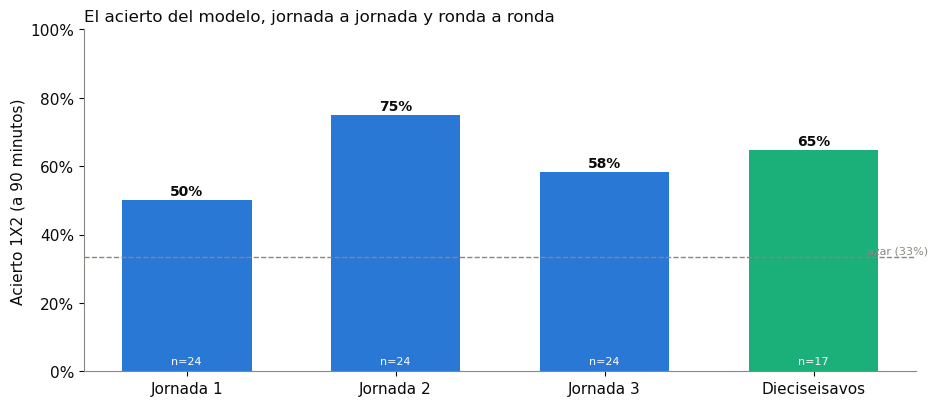
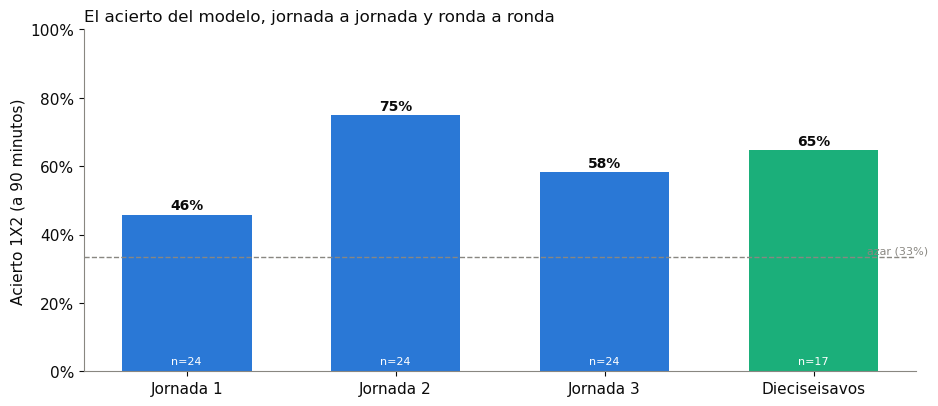
Refresh portfolio images and headline numbers after latest feature integration

Changed region(s): [[0.1237, 0.4433, 0.2783, 0.532]]

diff --git a/README.md b/README.md
@@ -18,11 +18,11 @@ fútbol internacional.
 
 | Métrica (evaluación a ciegas, sin fuga temporal) | Resultado |
 |---|---|
-| Acierto 1X2 en la fase de grupos 2026 (72 partidos) | **61%** (azar: 33%, casas de apuestas: ~55-58%) |
-| Acierto de quién avanza, dieciseisavos 2026 | **11/12** de los cruces decididos en 90' |
+| Acierto 1X2 en la fase de grupos 2026 (72 partidos) | **60%** (azar: 33%, casas de apuestas: ~55-58%) |
+| Acierto de quién avanza, dieciseisavos 2026 | **12/12** de los cruces decididos en 90' |
 | Marcador exacto (5 Mundiales, tras el ajuste de contexto) | **12.1%** (top-3: 36%) |
 | Accuracy 1X2 sobre 82 ediciones de torneos mayores | **54.3%** |
-| Puntos exactos de grupo clavados por selección (2026) | 13/48, error medio 1.6 pts |
+| Puntos exactos de grupo clavados por selección (2026) | 15/48, error medio 1.5 pts |
 
 ![Puntos previstos vs reales por grupo](docs/img/grupos_previsto_vs_real.png)
 